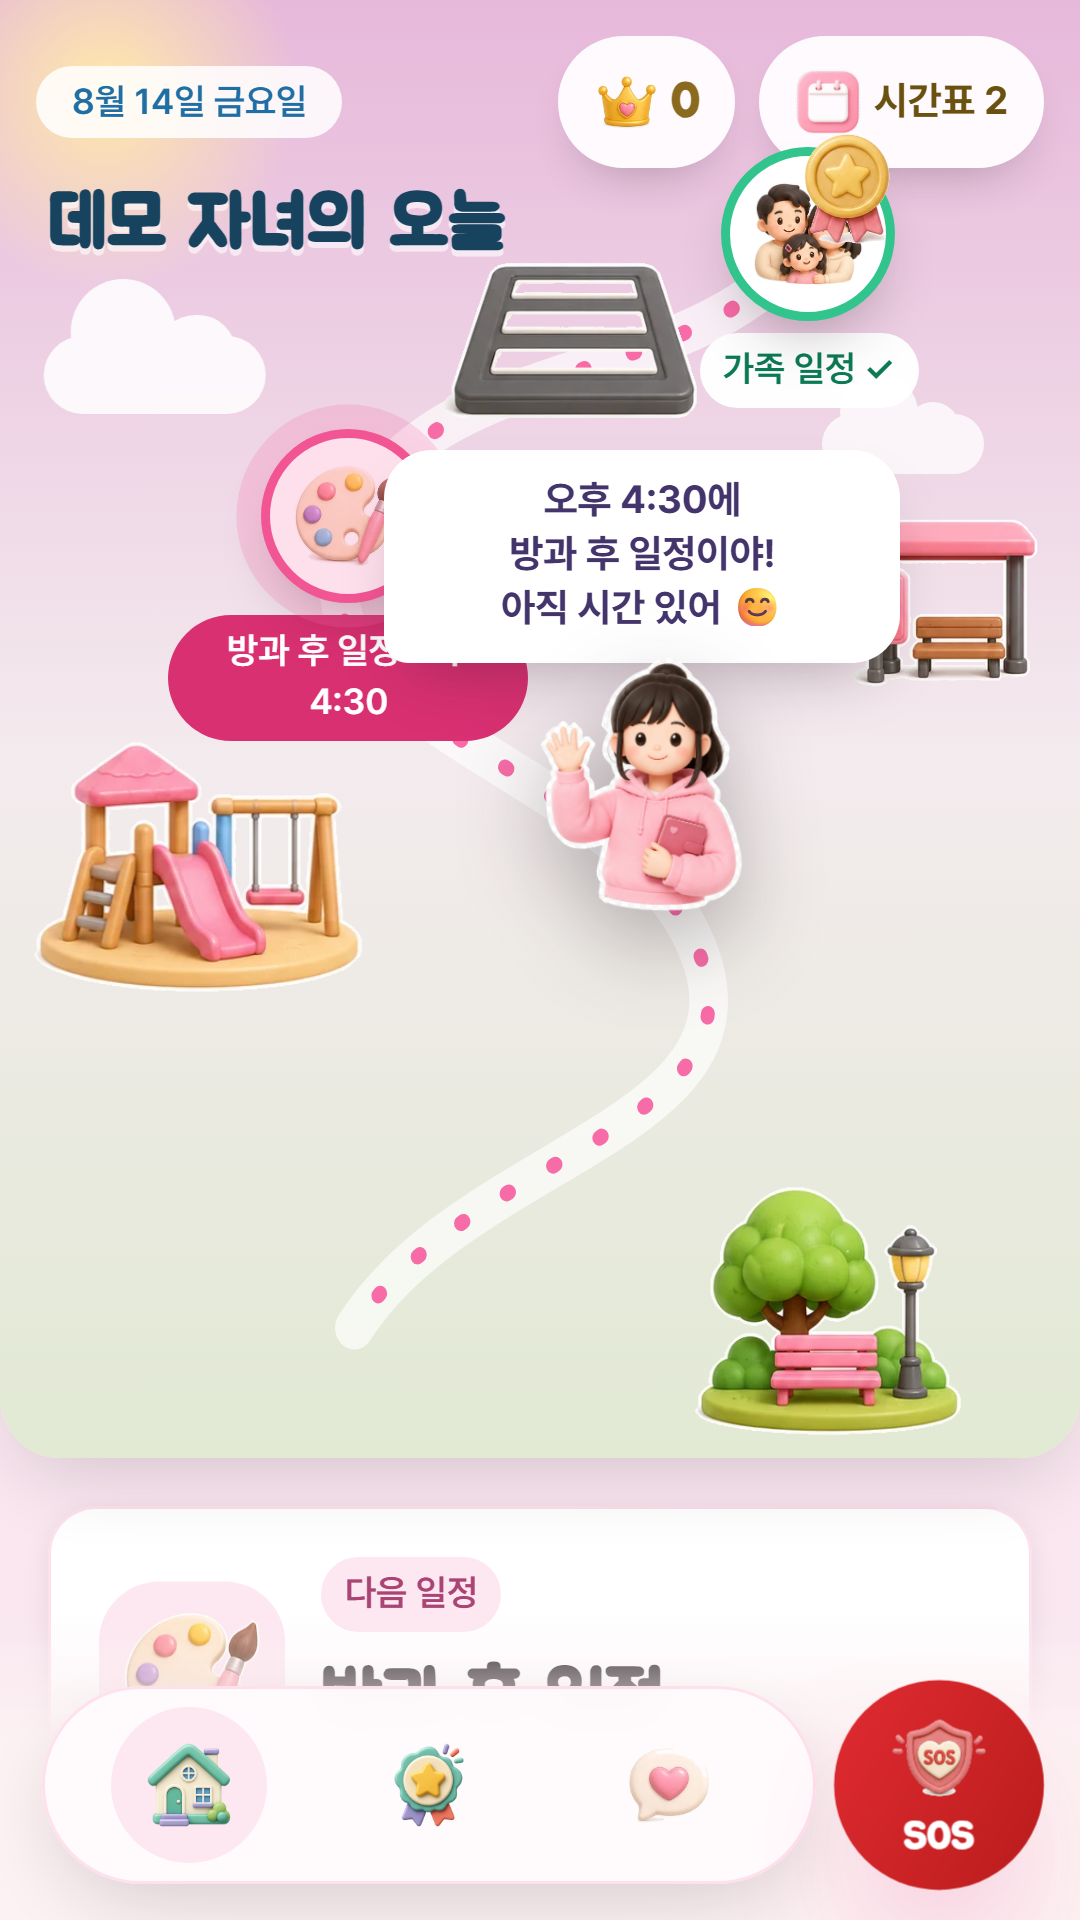
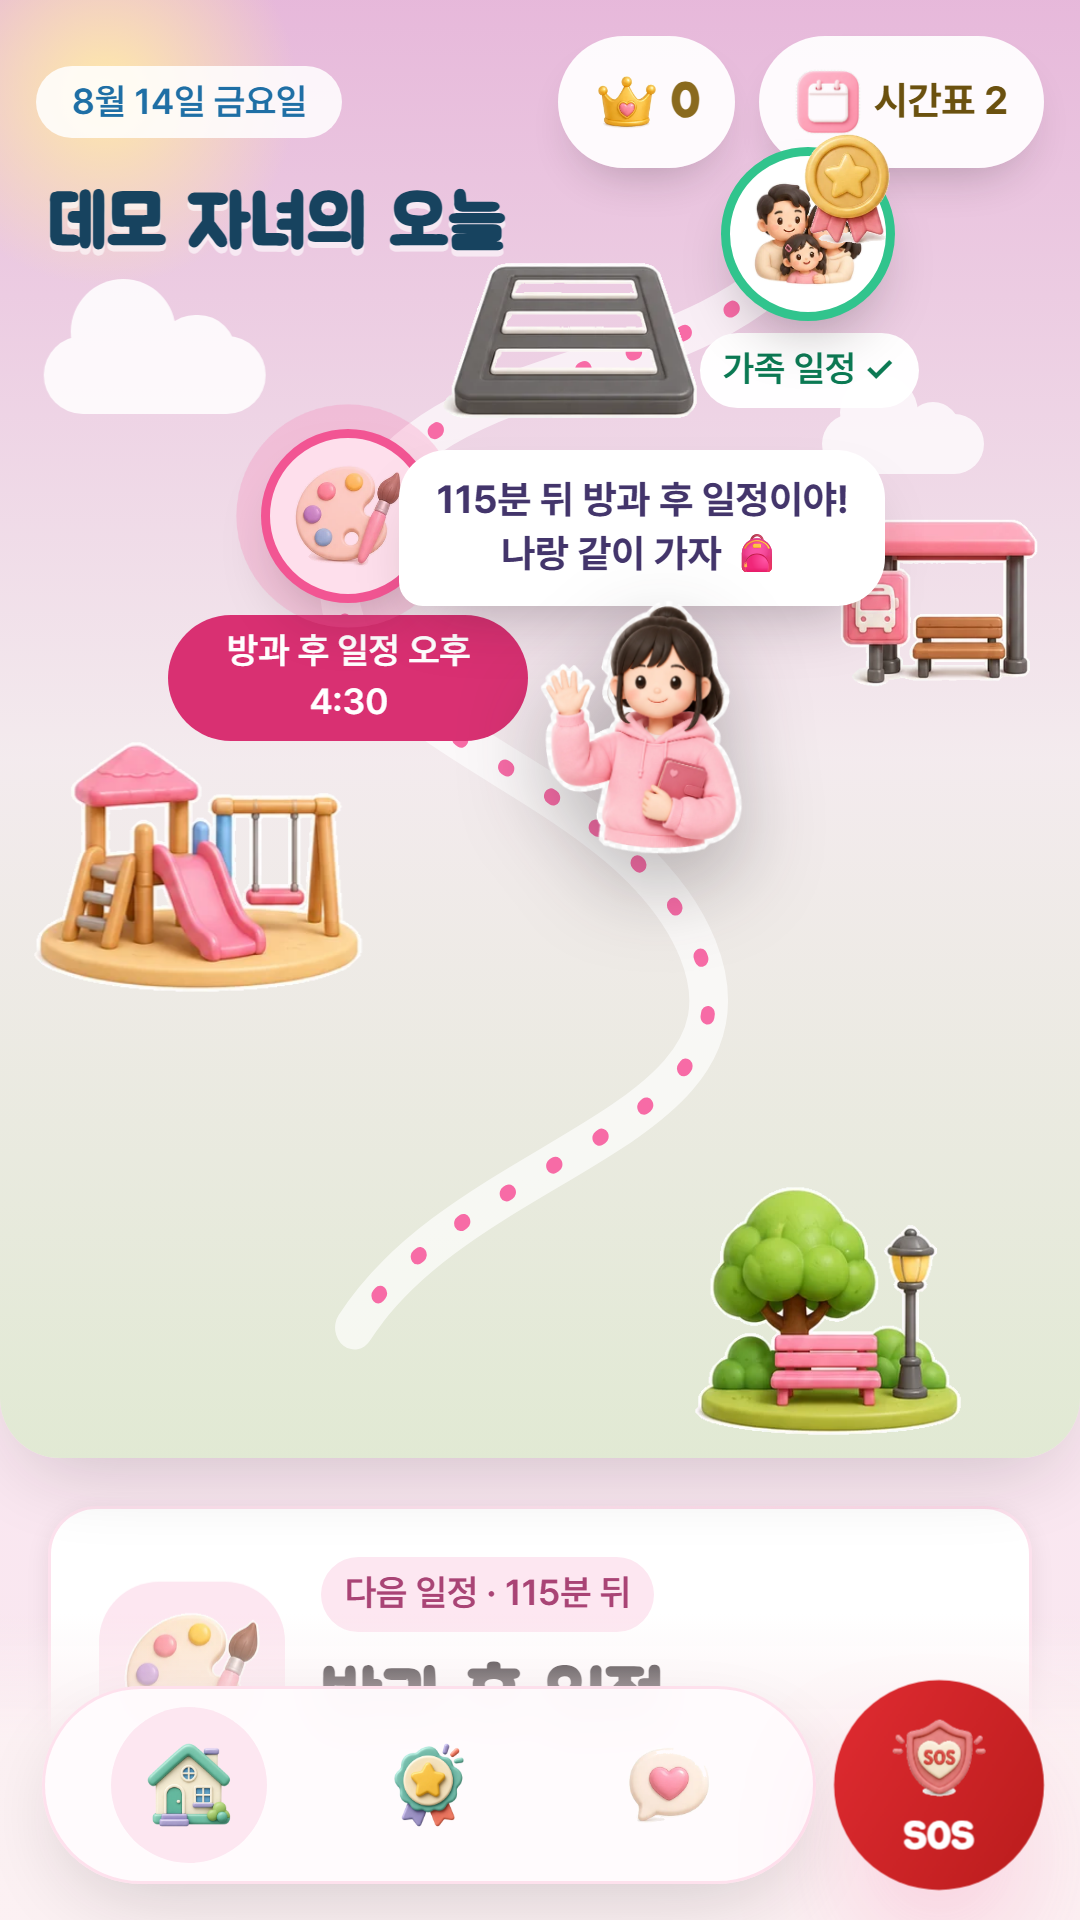
이동 기록 시간 막대를 실측 범위로 제한한다

Changed region(s): [[0.3361, 0.2188, 0.8556, 0.5], [0.4583, 0.8125, 0.5806, 0.8438]]

diff --git a/src/screens/parent/ParentLocation.tsx b/src/screens/parent/ParentLocation.tsx
@@ -45,7 +45,6 @@ import {
 import { filterEventsForChild } from "@/transform/eventScope";
 import {
   clampHistoryDayKey,
-  clampHistoryOffsetMinute,
   getHistoryDayKey,
   getHistoryDayKeyRange,
   getHistoryDayWindow,
@@ -68,6 +67,7 @@ import {
   savePremiumReturnIntent,
 } from "@/transform/premiumReturnIntent";
 import {
+  clampJourneyScrubMs,
   getJourneyRecordedRange,
   resolveJourneyContentState,
 } from "@/transform/locationJourneyView";
@@ -199,13 +199,12 @@ export function ParentLocation() {
     const date = parseAppDateKey(historyDayKey);
     return date?.toLocaleDateString("ko-KR", { month: "long", day: "numeric", weekday: "short" }) ?? "선택한 날";
   }, [historyDayKey, historyTodayKey]);
-  const historyMaxOffsetMinute = historyWindow.maxOffsetMinutes;
-  // null = 최신 따라가기(기본). 숫자 = 부모가 직접 고른 시각.
+  // null = 최신 따라가기(기본). 숫자 = 부모가 직접 고른 실제 기록 시각(ms).
   // 위치 폴링(30초)마다 `now` 가 갱신돼도 부모가 고른 시각을 최신으로 되돌리지 않는다.
-  const [scrubOffsetMinute, setScrubOffsetMinute] = useState<number | null>(null);
+  const [scrubTimeMs, setScrubTimeMs] = useState<number | null>(null);
   // 지도 중심은 연속 드래그가 멈춘 뒤에만 갱신한다. 시각·마커 표시는 즉시 움직이되
   // 같은 장소에 setCenter→panBy를 반복해 지도가 떨리는 현상을 막는다.
-  const [settledScrubOffsetMinute, setSettledScrubOffsetMinute] = useState<number | null>(null);
+  const [settledScrubTimeMs, setSettledScrubTimeMs] = useState<number | null>(null);
 
   // 대상 아이 = 전역 활성 아이(스위치는 부모 홈에서만 — 이 화면엔 전환 UI 없음).
   // 예외: 알림/SOS/도착에서 `?child=<user_id>` 로 진입하면 그 아이를 우선(위급 아이 — 안전 규칙).
@@ -297,7 +296,7 @@ export function ParentLocation() {
   const activeView: "live" | "history" = isLocked || locationScopePending ? "live" : view;
   // 보기 전환·아이 전환에서만 최신 따라가기로 돌아간다(폴링으로 되돌리지 않는다).
   useEffect(() => {
-    setScrubOffsetMinute(null);
+    setScrubTimeMs(null);
   }, [activeView, historyDayKey, selected?.id]);
 
   // 선택일 경로는 오전 8시부터 다음 날 오전 8시까지 24시간으로 고정한다.
@@ -332,24 +331,15 @@ export function ParentLocation() {
     () => getJourneyRecordedRange(timedHistoryPoints),
     [timedHistoryPoints],
   );
-  const latestHistoryOffsetMinute = journeyRange
-    ? clampHistoryOffsetMinute(
-        Math.floor((journeyRange.endMs - historyWindow.startMs) / 60_000),
-        historyMaxOffsetMinute,
-      )
-    : historyMaxOffsetMinute;
-  const followsLatest = scrubOffsetMinute == null;
-  const effectiveScrubOffsetMinute = followsLatest
-    ? latestHistoryOffsetMinute
-    : clampHistoryOffsetMinute(scrubOffsetMinute, historyMaxOffsetMinute);
-  const scrubMs = historyWindow.startMs + effectiveScrubOffsetMinute * 60_000;
-  const mapFocusOffsetMinute = followsLatest
+  const followsLatest = scrubTimeMs == null;
+  const scrubMs = journeyRange
+    ? followsLatest
+      ? journeyRange.endMs
+      : clampJourneyScrubMs(scrubTimeMs, journeyRange)
+    : historyWindow.endMs;
+  const mapFocusMs = followsLatest
     ? null
-    : settledScrubOffsetMinute ?? historyMaxOffsetMinute;
-  const mapFocusMs =
-    mapFocusOffsetMinute == null
-      ? null
-      : historyWindow.startMs + mapFocusOffsetMinute * 60_000;
+    : settledScrubTimeMs ?? journeyRange?.endMs ?? historyWindow.endMs;
   const settledScrubChildPoint = useMemo(() => {
     if (mapFocusMs == null) return null;
     for (let index = timedTrail.length - 1; index >= 0; index -= 1) {
@@ -438,21 +428,20 @@ export function ParentLocation() {
   // 연속 입력 중에는 좌표뿐 아니라 패널 높이로 계산한 지도 여백도 고정한다. 두 값을 같은
   // debounce 콜백에서 확정해야 KakaoMap의 setCenter→panBy가 마지막에 한 번만 실행된다.
   useEffect(() => {
-    if (scrubOffsetMinute == null) {
-      setSettledScrubOffsetMinute(null);
+    if (scrubTimeMs == null) {
+      setSettledScrubTimeMs(null);
       setSettledHistoryMapPadding(historyMapPadding);
       return;
     }
-    const nextOffsetMinute = clampHistoryOffsetMinute(
-      scrubOffsetMinute,
-      historyMaxOffsetMinute,
-    );
+    const nextScrubTimeMs = journeyRange
+      ? clampJourneyScrubMs(scrubTimeMs, journeyRange)
+      : historyWindow.endMs;
     const timer = window.setTimeout(() => {
-      setSettledScrubOffsetMinute(nextOffsetMinute);
+      setSettledScrubTimeMs(nextScrubTimeMs);
       setSettledHistoryMapPadding(historyMapPadding);
     }, 160);
     return () => window.clearTimeout(timer);
-  }, [historyMapPadding, historyMaxOffsetMinute, scrubOffsetMinute]);
+  }, [historyMapPadding, historyWindow.endMs, journeyRange, scrubTimeMs]);
 
   useEffect(() => {
     const media = window.matchMedia("(min-width: 720px) and (orientation: landscape)");
@@ -538,7 +527,7 @@ export function ParentLocation() {
     }
     if (nextDateKey === historyDayKey) return;
     setRawHistoryDayKey(nextDateKey);
-    setScrubOffsetMinute(null);
+    setScrubTimeMs(null);
     setSelectedStayIdx(null);
     setHistoryPanelExpanded(true);
   };
@@ -557,12 +546,13 @@ export function ParentLocation() {
   // 시간대별 경로 조작 — 수동 목록 선택을 해제해 고른 시각의 머문 곳을 자동 강조한다.
   // 드래그 도중 패널 높이를 바꾸면 지도 가시 영역도 바뀌어 한 번 더 흔들리므로 펼침 상태는 유지한다.
   const moveScrubTo = (rawValue: number) => {
-    setScrubOffsetMinute(clampHistoryOffsetMinute(rawValue, historyMaxOffsetMinute));
+    if (!journeyRange) return;
+    setScrubTimeMs(clampJourneyScrubMs(rawValue, journeyRange));
     setSelectedStayIdx(null);
   };
 
   const followLatestAgain = () => {
-    setScrubOffsetMinute(null);
+    setScrubTimeMs(null);
     setSelectedStayIdx(null);
   };
 
@@ -894,8 +884,9 @@ export function ParentLocation() {
           stayCount={visibleStayPoints.length}
           currentTimeLabel={formatClockHM(scrubMs)}
           currentWhere={scrubWhere}
-          sliderMax={historyMaxOffsetMinute}
-          sliderValue={effectiveScrubOffsetMinute}
+          sliderMin={journeyRange?.startMs ?? 0}
+          sliderMax={journeyRange?.endMs ?? 0}
+          sliderValue={scrubMs}
           followsLatest={followsLatest}
           stays={journeyStayItems}
           onToggleExpanded={() => setHistoryPanelExpanded((value) => !value)}

diff --git a/src/screens/parent/LocationJourneyPanel.tsx b/src/screens/parent/LocationJourneyPanel.tsx
@@ -21,6 +21,7 @@ export interface LocationJourneyPanelProps {
   stayCount: number;
   currentTimeLabel: string;
   currentWhere: string;
+  sliderMin: number;
   sliderMax: number;
   sliderValue: number;
   followsLatest: boolean;
@@ -50,6 +51,7 @@ export function LocationJourneyPanel({
   stayCount,
   currentTimeLabel,
   currentWhere,
+  sliderMin,
   sliderMax,
   sliderValue,
   followsLatest,
@@ -148,11 +150,11 @@ export function LocationJourneyPanel({
             <input
               className="pl-journey__range"
               type="range"
-              min={0}
+              min={sliderMin}
               max={sliderMax}
-              step={1}
+              step="any"
               value={sliderValue}
-              disabled={sliderMax <= 0}
+              disabled={sliderMax <= sliderMin}
               aria-label={`${childName}의 이동 시간 따라보기`}
               aria-valuetext={`${currentTimeLabel} · ${currentWhere}`}
               onChange={(event) => onSliderChange(Number(event.currentTarget.value))}

diff --git a/tests/locationJourneyView.test.ts b/tests/locationJourneyView.test.ts
@@ -1,6 +1,7 @@
 import test from "node:test";
 import assert from "node:assert/strict";
 import {
+  clampJourneyScrubMs,
   getJourneyRecordedRange,
   resolveJourneyContentState,
 } from "../src/transform/locationJourneyView.ts";
@@ -11,6 +12,15 @@ test("경로 기록 범위는 유효 시각을 정렬해 첫 확인과 마지막
     { startMs: 10, endMs: 30 },
   );
   assert.equal(getJourneyRecordedRange([]), null);
+});
+
+test("시간 막대 시각은 실제 첫 기록과 마지막 기록 사이에서만 움직인다", () => {
+  const range = { startMs: 1_000, endMs: 9_000 };
+
+  assert.equal(clampJourneyScrubMs(-1, range), 1_000);
+  assert.equal(clampJourneyScrubMs(4_500, range), 4_500);
+  assert.equal(clampJourneyScrubMs(12_000, range), 9_000);
+  assert.equal(clampJourneyScrubMs(Number.NaN, range), 9_000);
 });
 
 test("패널 상태는 오류·로딩·빈 기록·이동만·머문 곳 순서로 구분한다", () => {

diff --git a/src/transform/locationJourneyView.ts b/src/transform/locationJourneyView.ts
@@ -14,6 +14,15 @@ export function getJourneyRecordedRange(
   return startMs == null || endMs == null ? null : { startMs, endMs };
 }
 
+/** 사용자가 고른 시각을 실제 위치 기록이 존재하는 구간 안으로 제한한다. */
+export function clampJourneyScrubMs(
+  value: number,
+  range: JourneyRecordedRange,
+): number {
+  if (!Number.isFinite(value)) return range.endMs;
+  return Math.min(range.endMs, Math.max(range.startMs, value));
+}
+
 export function resolveJourneyContentState(input: {
   isFetching: boolean;
   isError: boolean;
